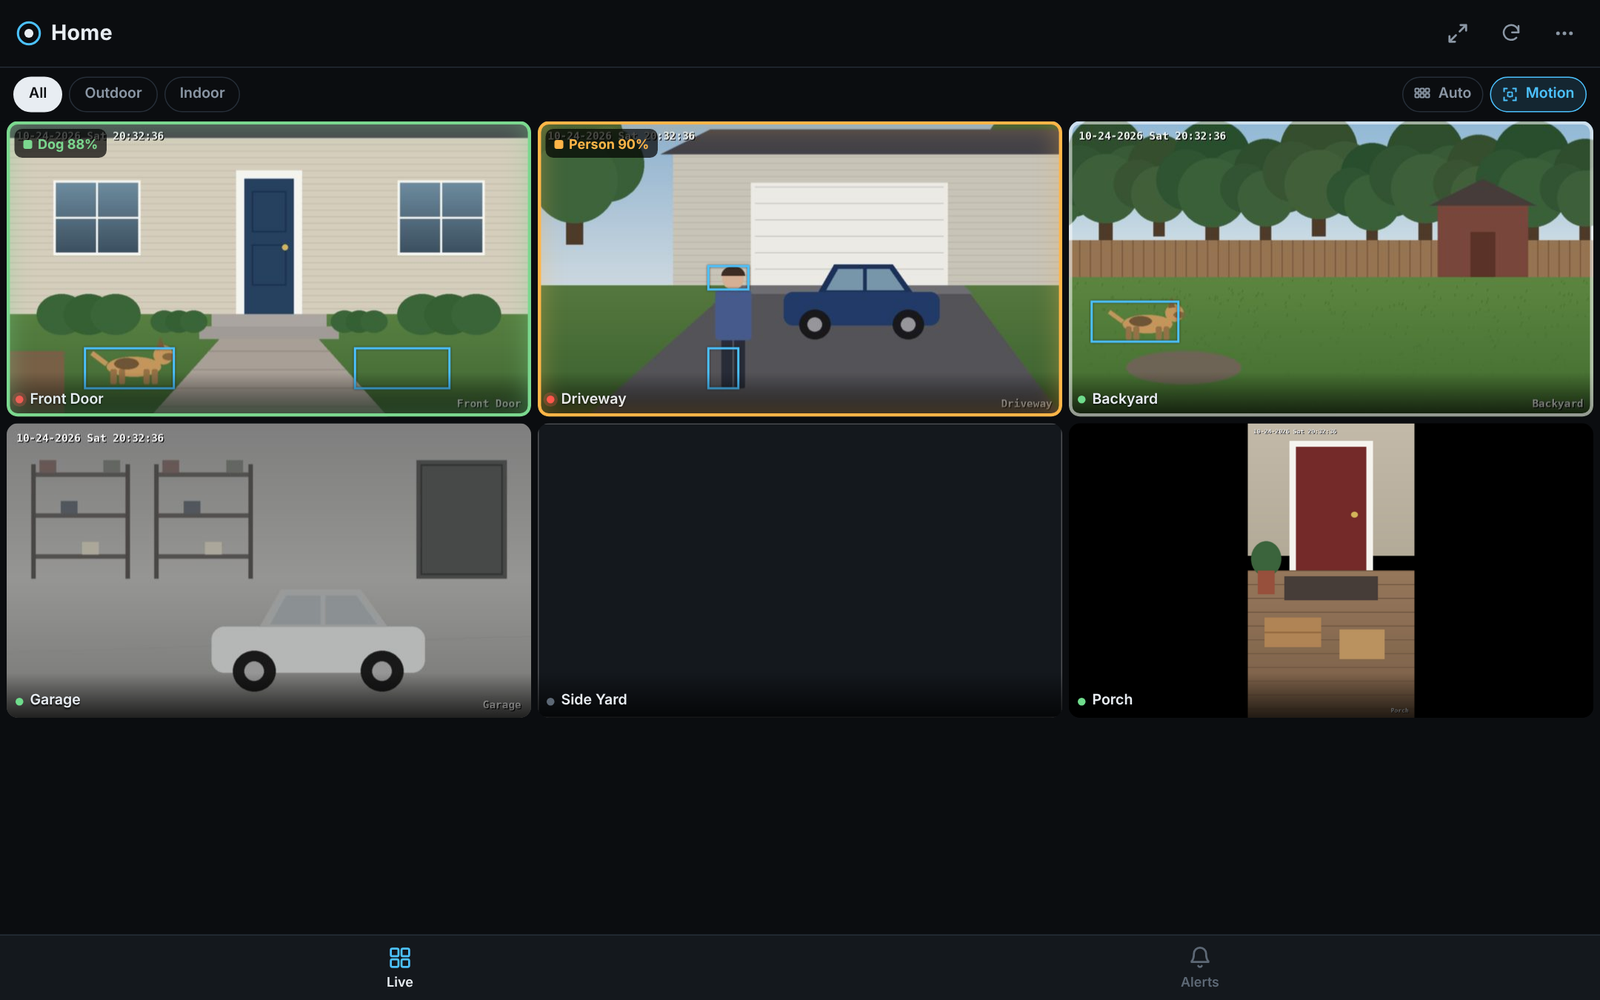
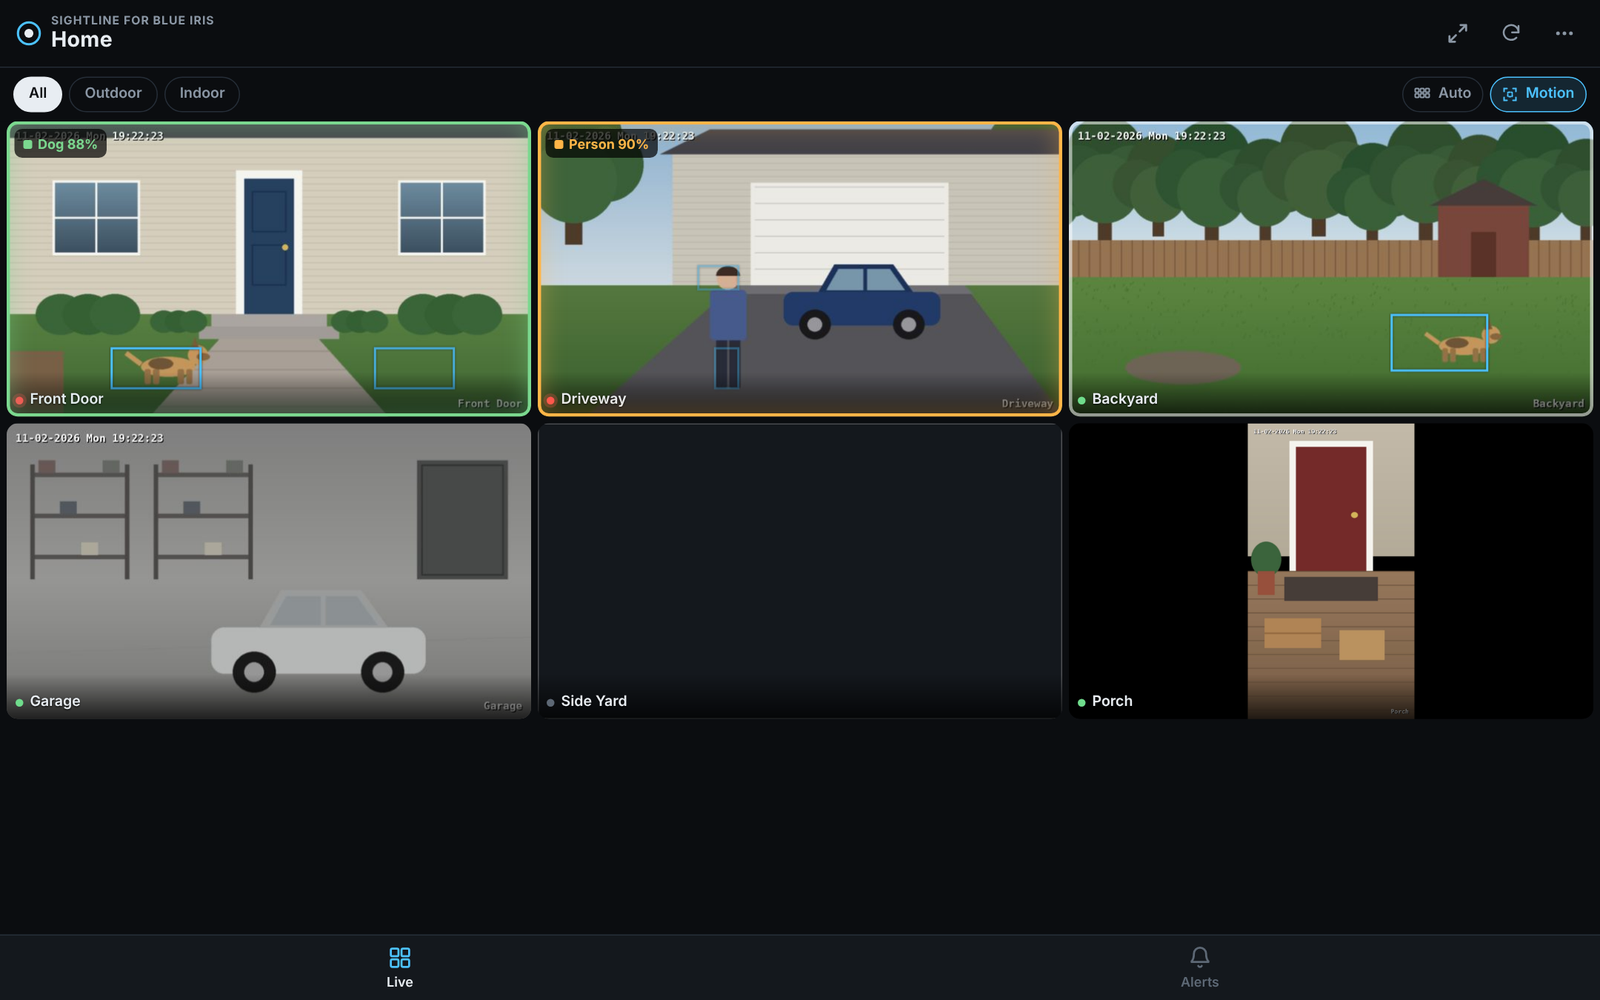
Release 0.16.0
Group playback (all cameras at the same moment), detection pop-ups with custom labels,
Activity overview, downloads from any camera and anywhere on the timeline (up to 2 h,
cancel), ONVIF labels, per-camera tile sizes, rewind on older Blue Iris, Sightline name
by the server name, Choose as the default alert filters with a one-time tip.
README screenshots retaken, with new group, pop-up and Activity shots.

Claude-Session: https://claude.ai/code/session_01T5ZrvtmFomZ4pfZJka1E5x

diff --git a/www/sightline.htm b/www/sightline.htm
@@ -1012,7 +1012,7 @@ body.isfs #viewer.hideui{cursor:none}
 'use strict';
 /* Values filled in by the Blue Iris web server when it serves this .htm file */
 const INJECTED_SESSION = "%%SESSION%%";
-const APP = { name: 'Sightline', version: '0.16.0-dev' };   // bump the version with every change you copy to the www folder
+const APP = { name: 'Sightline', version: '0.16.0' };   // bump the version with every change you copy to the www folder
 const INJECTED_SYSNAME = "%%SYSNAME%%";
 /* Note: never write two percent signs together anywhere else in this file \u2014 Blue Iris treats the
    text between them as a placeholder and blanks it out when serving the page. */

diff --git a/CHANGELOG.md b/CHANGELOG.md
@@ -2,13 +2,13 @@
 
 All notable changes to Sightline for Blue Iris. Released versions match what **Settings → About** shows; a version ending in `-dev` is a work-in-progress copy from `main`.
 
-## Unreleased (next: 0.16.0)
+## 0.16.0 — 2026-11-02
 
 - **Watch all cameras at once, live or in recordings.** A new four-squares button in the player's top bar switches to the whole Blue Iris group (your selected group, or All cameras) at the same moment, with each camera's name on the picture, live or while rewinding and scrubbing the timeline. The timeline shows every camera's alerts and previous / next alert stay in the group. Tap a camera to jump to it at that same moment; press the button again to go back to the camera you started on. Frame stepping (`,` / `.`) works too. Phones hide the Motion button in this view to make room.
   - **Hidden and disabled cameras are left out** in live view: Blue Iris's group picture includes every camera in the group, so Sightline cuts out just the cameras it shows and lays them out in its own grid that fits the screen. Where each camera sits comes from Blue Iris's own description of each group video (its X-CamList / X-RecList headers), which wins over the camera list's layout.
   - **Recordings:** Blue Iris lays the group out again for playback (in a different camera order), but some versions (seen on 5.8.1.5) still describe the live layout. Sightline doesn't trust a recording video's layout; it uses a still picture's layout of the same moment when that differs, and otherwise shows Blue Iris's whole group picture ("Showing the whole group picture for this recording"), including hidden and disabled cameras, with tap-to-camera off rather than opening the wrong camera.
   - Troubleshooting: open Sightline with `?grpdebug=1` to see Blue Iris's group picture as-is with each camera's position outlined and the layout's source. Copy diagnostics says where the group view's layout came from.
-- **Activity overview** in **Settings → Activity**: alerts per day for the last 7 or 14 days, stacked by type, and a camera × hour-of-day heat map (brighter means busier), with filters for People, Vehicles and the other types. Tap a camera to open its alerts. Loaded day by day, 4 requests at a time, and kept for 10 minutes.
+- **Activity overview** in **Settings → Activity**: alerts per day for the last 7, 14 or 30 days, stacked by type, and a camera × hour-of-day heat map (brighter means busier), with filters for People, Vehicles and Animals. Tap a camera to open its alerts. Loaded day by day, 4 requests at a time, and kept for 10 minutes.
 - **Pop up cameras on detection** (off by default). In **Settings → Live view → Pop up cameras on detection**, pick any of **People**, **Vehicles** and **Animals**, and/or **Custom…**: a list of the labels your cameras reported in the last 3 weeks (switch on, for example, Dogs or UPS) plus any label you type. While the camera grid is on screen, a new matching detection (AI or the camera's own, never plain motion) pops that camera up large with live video, its label, name and time, for 20 seconds (pointing at it pauses the countdown). Click it to open the camera; X or Esc closes it. A newer detection replaces it, and each alert pops up once. Only cameras in the group on screen pop up (on Outdoor, an indoor camera's detection doesn't), and nothing pops up in the player, on the Alerts tab or in the background.
 - **"Sightline" next to your server's name.** A small "Sightline for Blue Iris" line (just "Sightline" on phones) sits above the server name at the top left, and the sign-in screen shows the Sightline logo and name above it, so it's clear which app you're using.
 - **New visitors start on Choose with All, People, Vehicles and Animals** (was Auto). Auto is a switch away in Settings → Alert filters; existing setups are unchanged.

diff --git a/README.md b/README.md
@@ -52,7 +52,7 @@ It's built for the two things you do most: **glancing at your cameras** and **fi
 - **Labels picked from real data.** Sightline scans the last 3 weeks of alerts and lists every label your cameras have actually reported, with counts. You can also type your own. Capitalization and plurals don't matter.
 - **Date and time ranges:** last hour, today, yesterday, last night (8 PM–6 AM), or any custom day and time window.
 - **Filter by camera or group.**
-- **Activity overview** (Settings → Activity): alerts per day for the last week or two, and a camera × hour-of-day heat map of when each camera is busiest. Tap a camera to see its alerts.
+- **Activity overview** (Settings → Activity): alerts per day for the last 7, 14 or 30 days, and a camera × hour-of-day heat map of when each camera is busiest. Tap a camera to see its alerts.
 - **Preview alerts on a computer.** Point at an alert and a large panel beside the list plays it as a quick flip-book of 8 frames, like UI3's mouse-over preview but bigger. Click the picture to open it. **Smooth** mode plays real sped-up video instead (more work for Blue Iris, so best on a capable server); or turn it off. Phones are unchanged.
 - **Flag or protect alerts, like UI3.** Flag one to come back to (the Flagged filter shows just those), or protect it so Blue Iris keeps it when clearing out old alerts and recordings. Use the flag button in the player (the "⋯" button on a phone, which also holds the download), or right-click an alert in the list (long-press on Android). It's saved in Blue Iris, so UI3 shows it too, and flagged and protected alerts are marked in the list.
 - **Tap an alert to play it** from the moment it happened. Alerts play straight from their recording file, as in UI3's Clips list.
@@ -103,7 +103,15 @@ It's built for the two things you do most: **glancing at your cameras** and **fi
 
 ![Live view on desktop with motion boxes](docs/screenshots/desktop-live.png)
 
+Optional pop-ups bring a camera up large when it detects what you pick (here a dog):
+
+![A camera popping up on a dog detection on desktop](docs/screenshots/desktop-popup.png)
+
 ![Playback on desktop](docs/screenshots/desktop-player.png)
+
+Watch every camera in the group at the same moment, live or while scrubbing back through recordings; tap one to jump to it:
+
+![All cameras at the same moment in playback on desktop](docs/screenshots/desktop-group.png)
 
 Go to any date and time: days with no recordings for the camera are greyed out, and days with alerts are marked:
 
@@ -112,6 +120,10 @@ Go to any date and time: days with no recordings for the camera are greyed out, 
 Point at an alert to preview it beside the list:
 
 ![Alert preview panel on desktop](docs/screenshots/desktop-alerts.png)
+
+The Activity overview shows when and where your cameras are busiest:
+
+![Activity overview: alerts per day and a camera-by-hour heat map](docs/screenshots/desktop-activity.png)
 
 Search the system log, for example for "signal":
 
